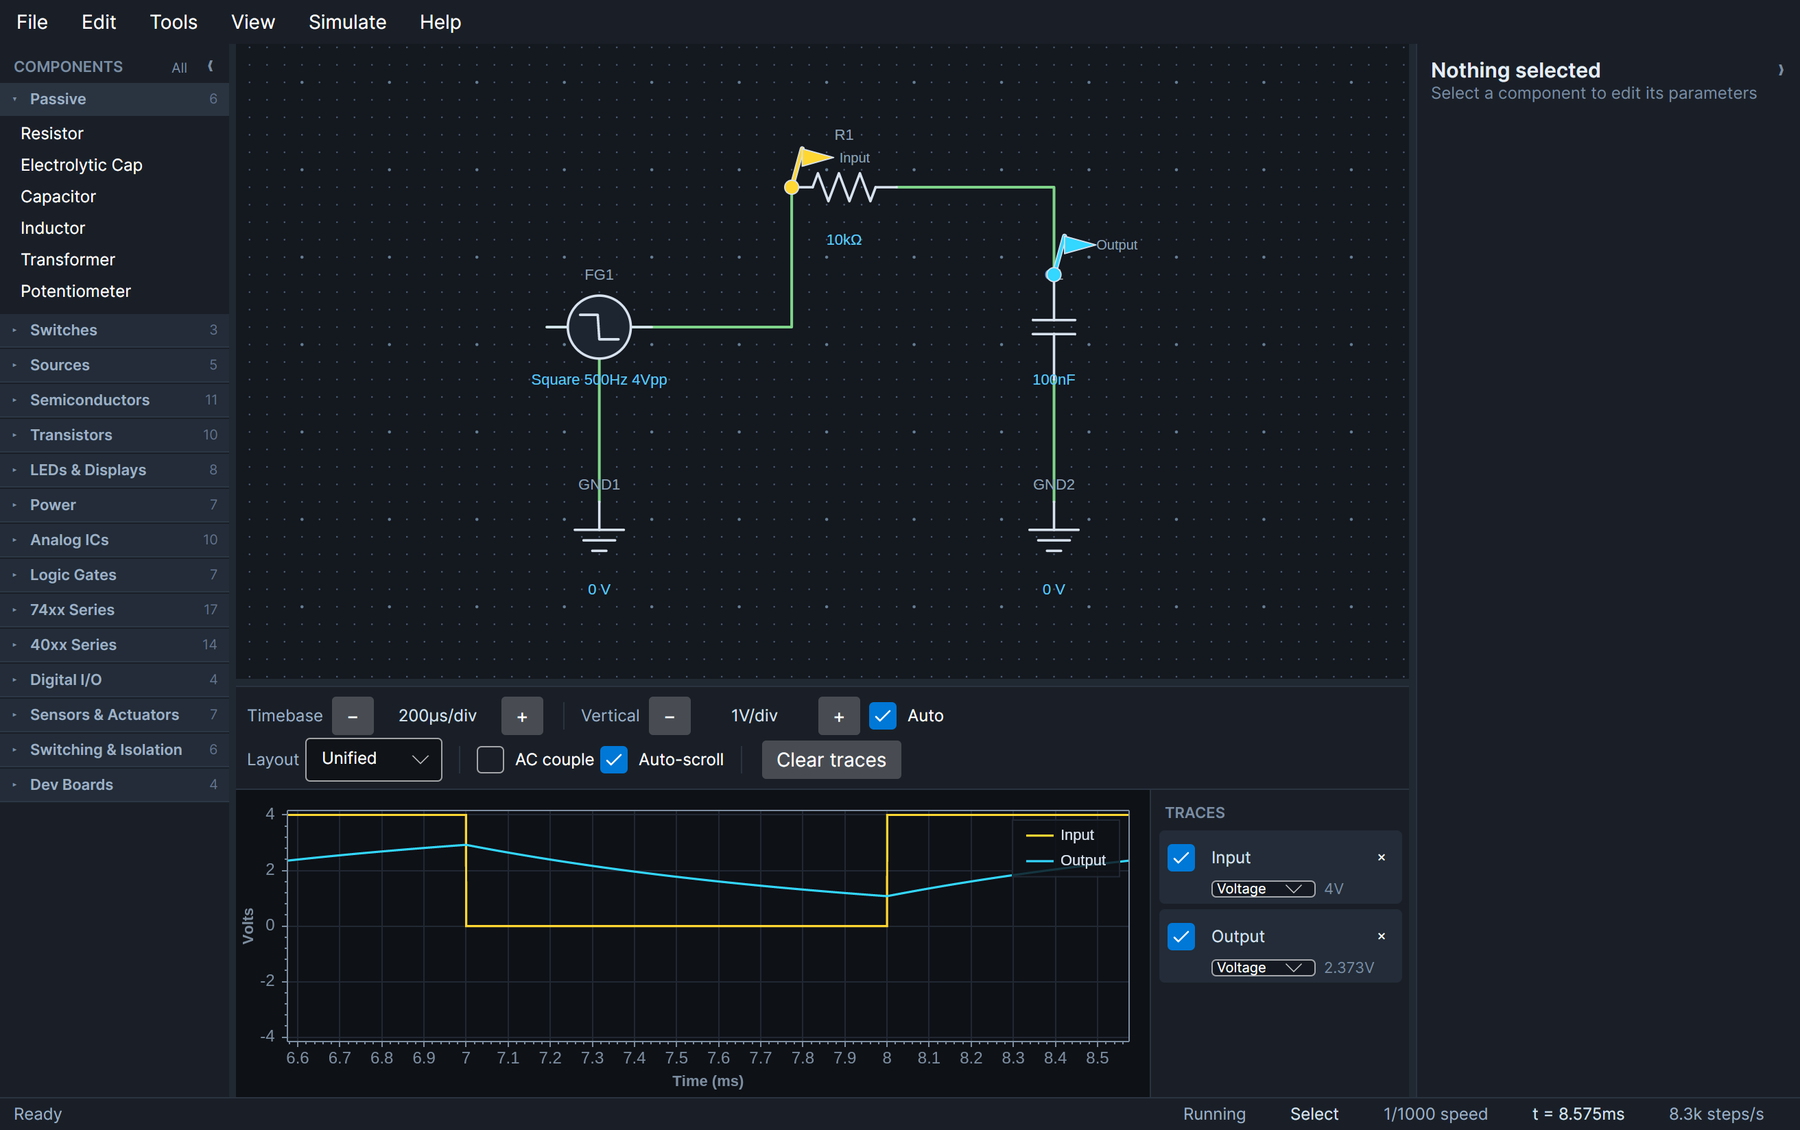
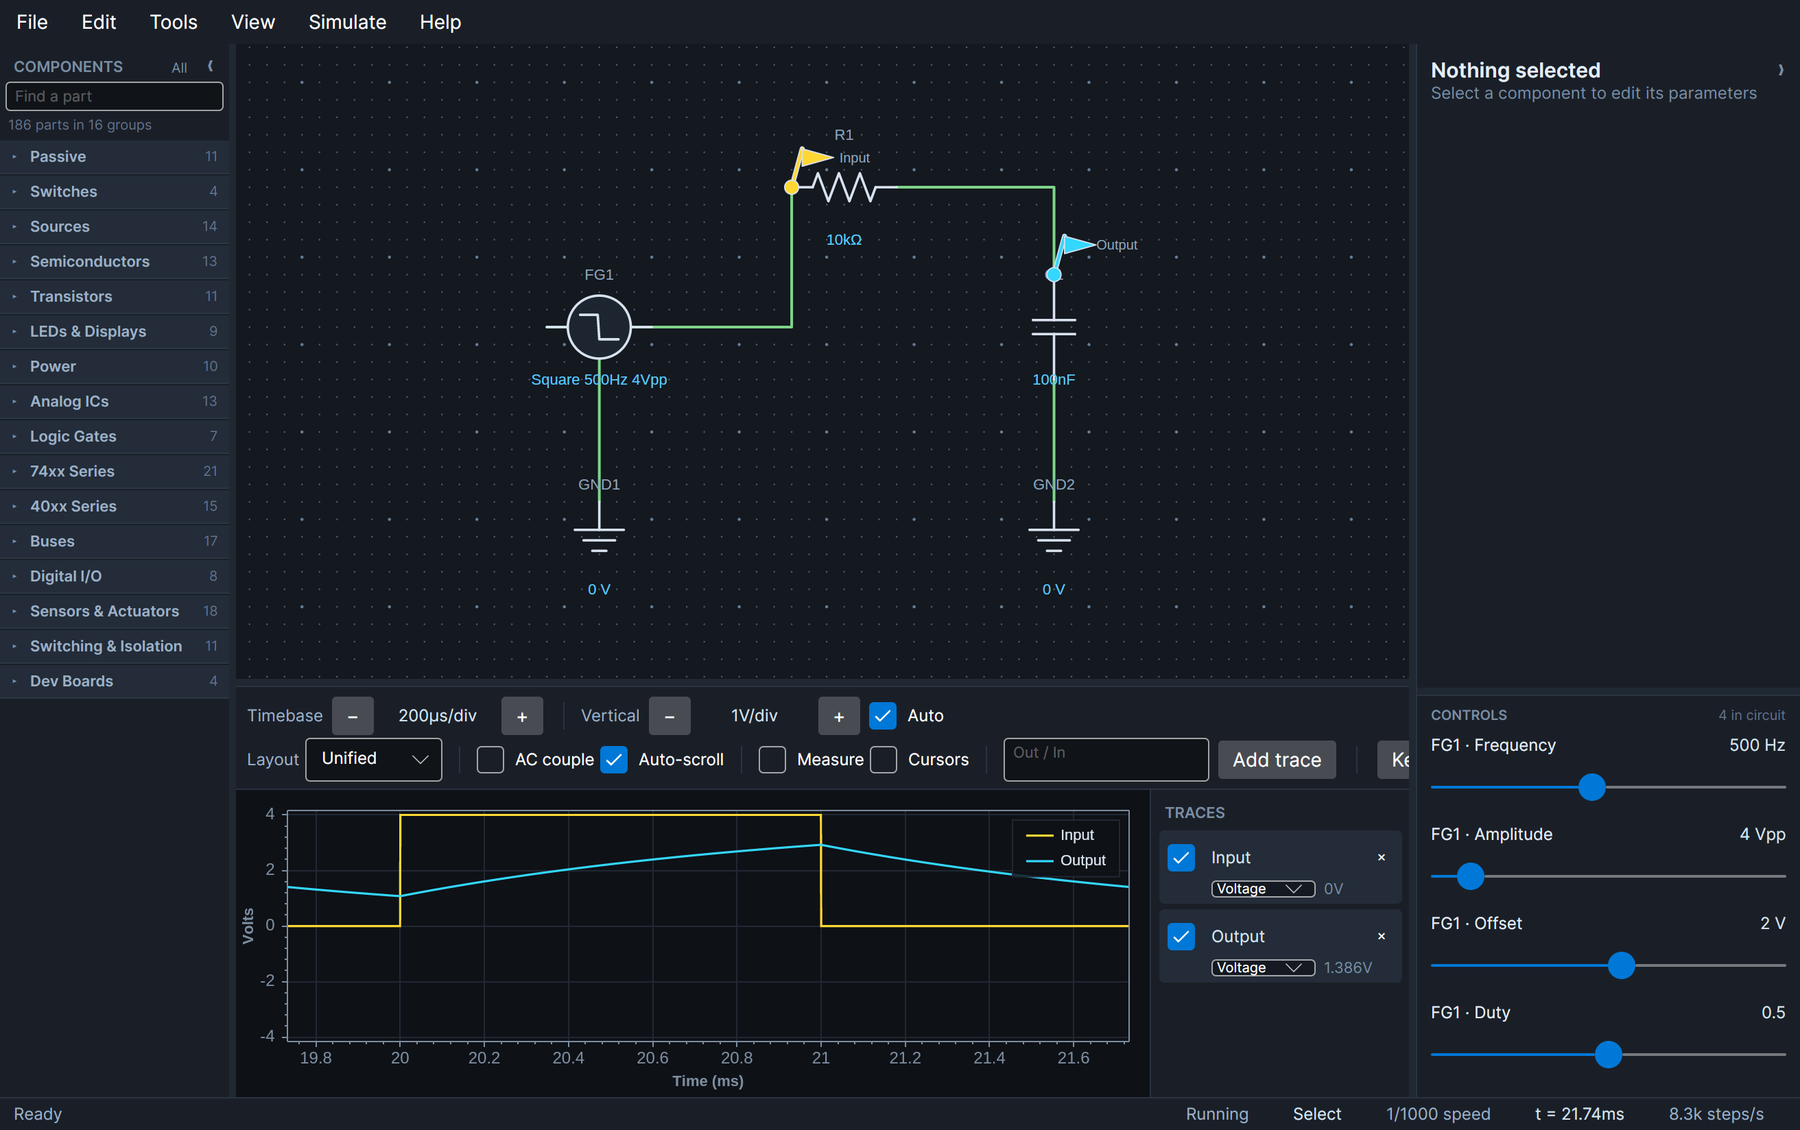
Photograph the hover card, and retake the stale overview
The guide had no screenshot of a hover card at all, only the generated
plate of codes — which shows the markings but not the thing people
actually see. `26-hover-card.png` is R1's card open over the schematic,
bands and all.

`01-overview.png` had gone stale some time ago: it predates the palette
search box and the controls panel, and showed part counts from a much
smaller catalogue. Retaken, with the alt text saying what is now in it.

diff --git a/docs/USER_GUIDE.md b/docs/USER_GUIDE.md
@@ -66,7 +66,7 @@ write. Preferences are created on first use.
 
 ## The window
 
-![The CirqAvalonia editor: menu bar, component palette on the left, schematic canvas in the centre, properties panel on the right, and the oscilloscope drawer across the bottom](images/01-overview.png)
+![The CirqAvalonia editor running an RC low-pass: menu bar across the top, the component palette on the left with its Find a part box and sixteen closed groups, the schematic canvas in the centre with probe flags on the input and output, the properties panel on the right, the oscilloscope drawer across the bottom showing the square wave against the capacitor's charging curve, and the controls panel at the bottom right with the generator's frequency, amplitude, offset and duty](images/01-overview.png)
 
 Five regions, and they stay put:
 
@@ -194,6 +194,8 @@ Rest the pointer on a part and a card appears beside it: the designator and type
 currently showing on the canvas, and the settings it is holding — the same names and values the
 properties panel gives, without selecting anything. On a schematic with eight resistors on it,
 finding the 4k7 is a look rather than eight clicks.
+
+![The hover card open over a schematic: R1 with its probe flag above it, and beside it a panel headed "R1 · Resistor" reading 10kΩ, then Resistance 10kΩ and Tolerance 0.05, then a drawing of the resistor itself with brown, black and orange bands and a gold one after a wider gap, and under it the line "brown 1 · black 0 · orange × 1,000 · gold ± 5 %"](images/26-hover-card.png)
 
 The settings a part marks as **operable** come first, because those are the ones its author singled
 out as the things you work: a generator leads with its frequency, amplitude, offset and duty cycle
